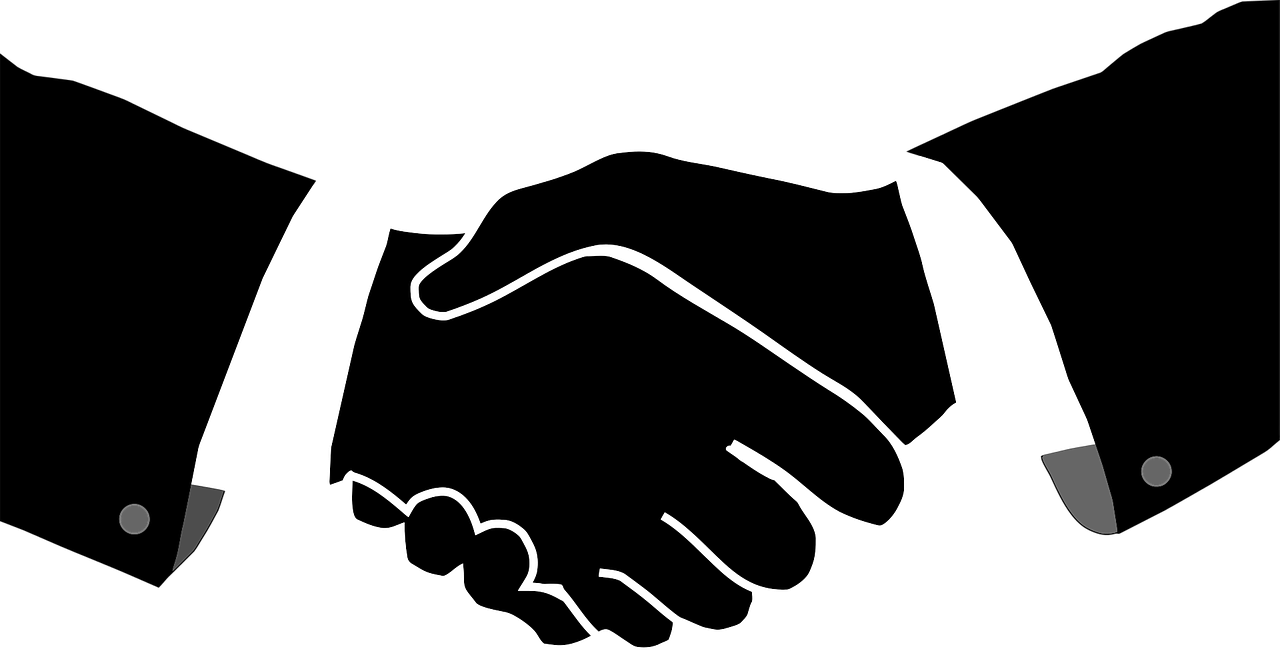
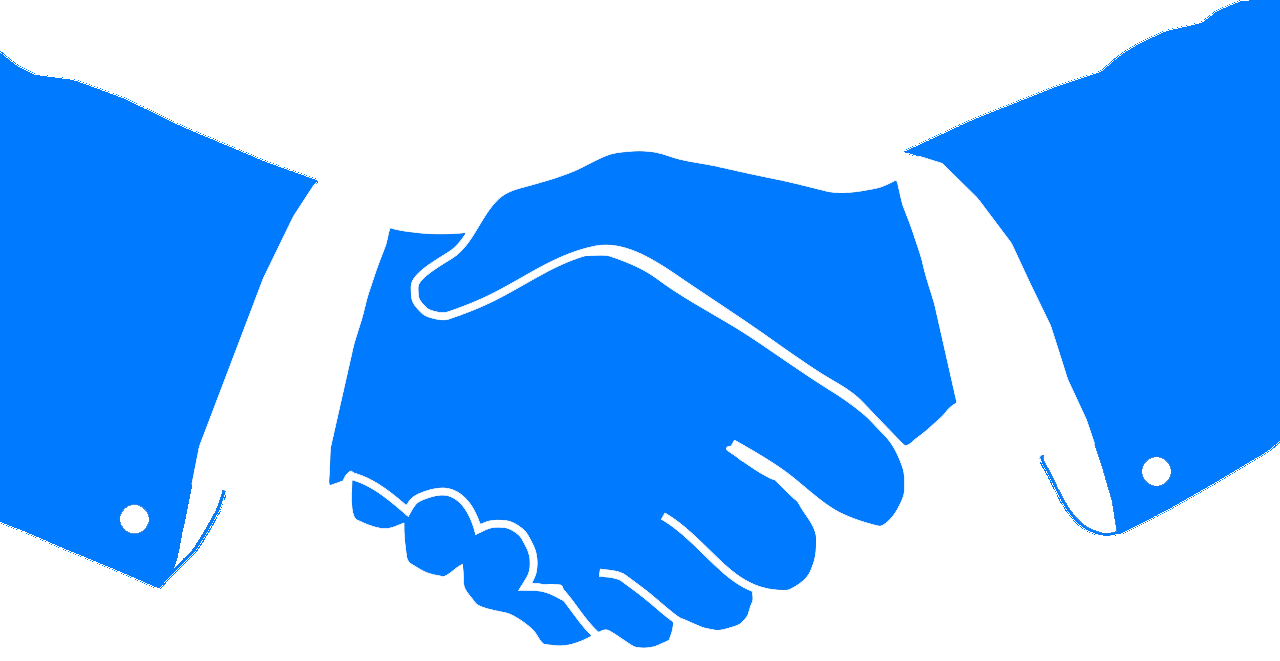
styling fix

diff --git a/client/src/pages/home/home.css b/client/src/pages/home/home.css
@@ -6,8 +6,9 @@
 
 .header {
     position: absolute;
-    top: 25%;
+    top:20%;
     left:50%;
+    color:#007bff;
     transform:translate(-50%,-50%);
 }
 .homeBackground {
@@ -21,7 +22,6 @@
 
 .text {
     font-family: Arial, Helvetica, sans-serif;
-    color: #ffffff;
     text-align: center;
 }
 
@@ -33,8 +33,4 @@
 .subhead {
     font-size: 25px;
     margin-top: -5px;
-}
-
-.container {
-    background-color:black;
 }

diff --git a/client/src/components/footer/footer.css b/client/src/components/footer/footer.css
@@ -1,6 +1,6 @@
 /* Add a black background color to the top navigation */
 .footer {
-  background-color: #666666;
+  background-color: #007bff;
   overflow: hidden;
   position: fixed;
   bottom: 0px;
